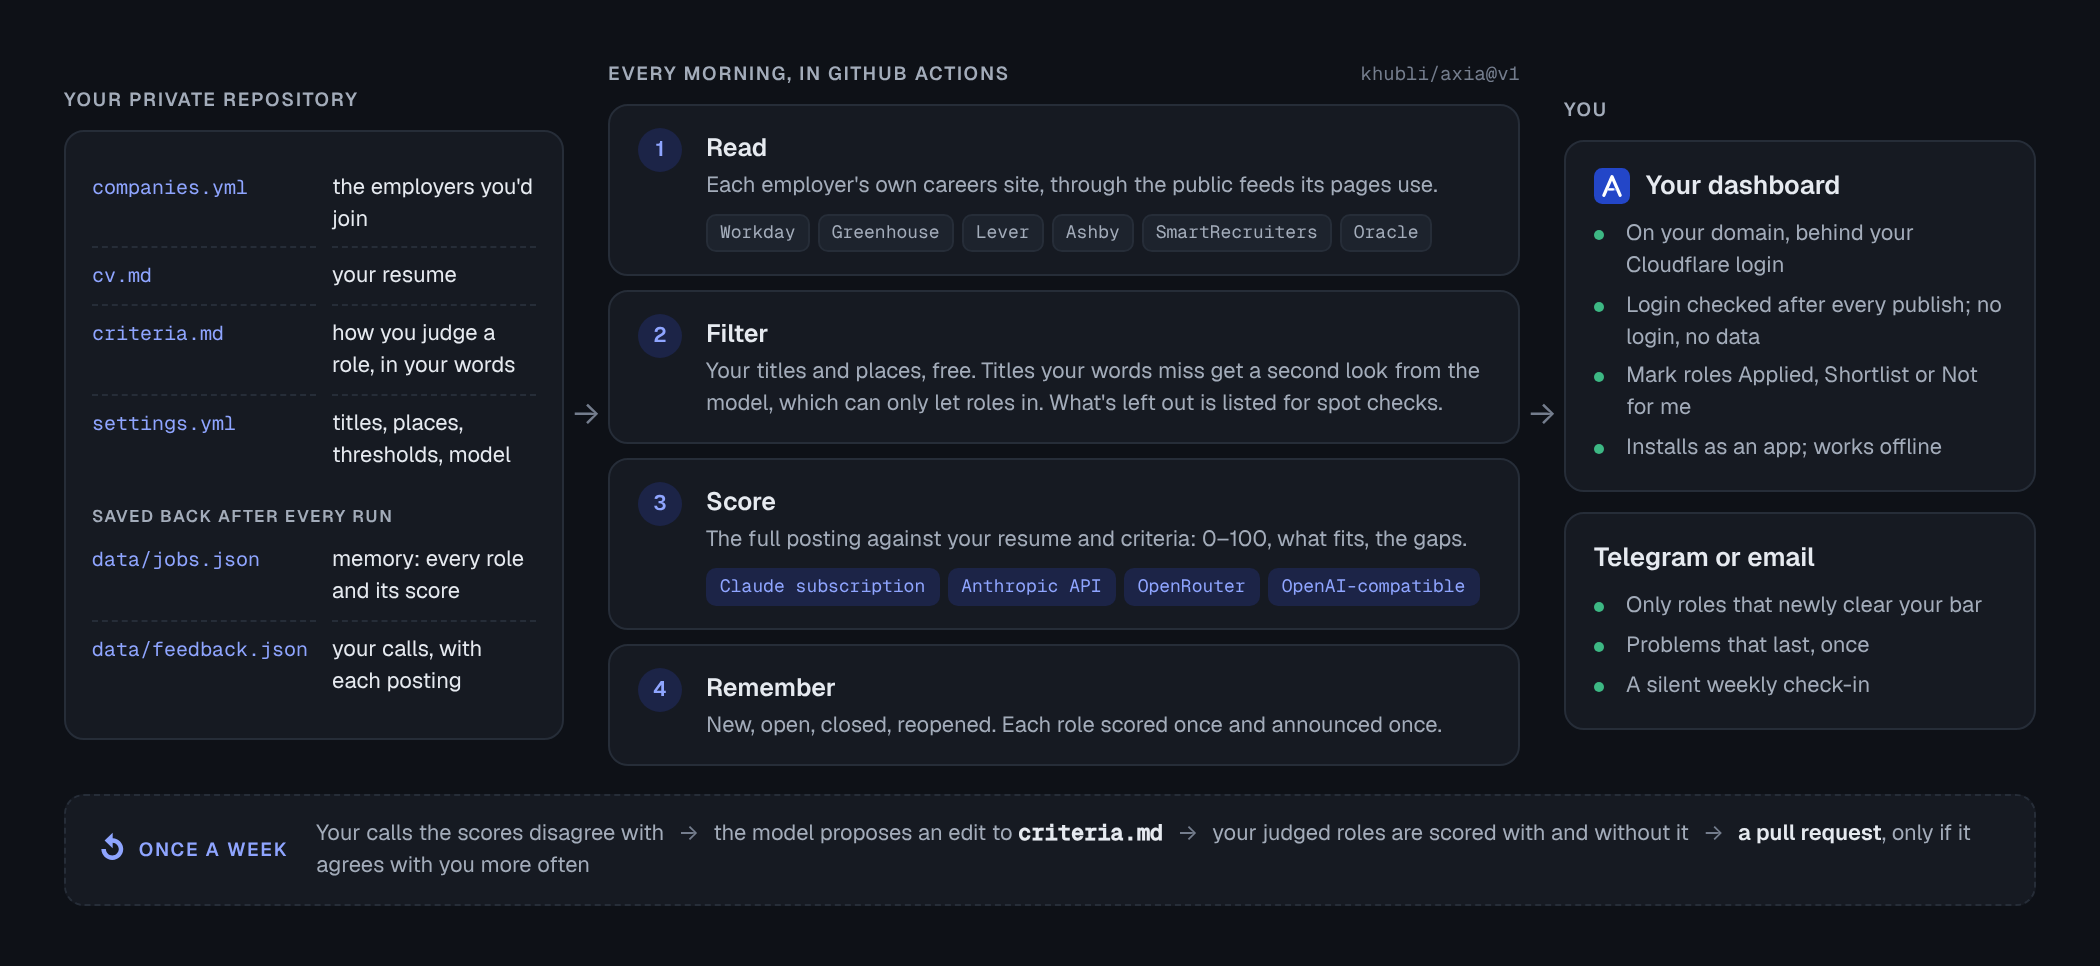
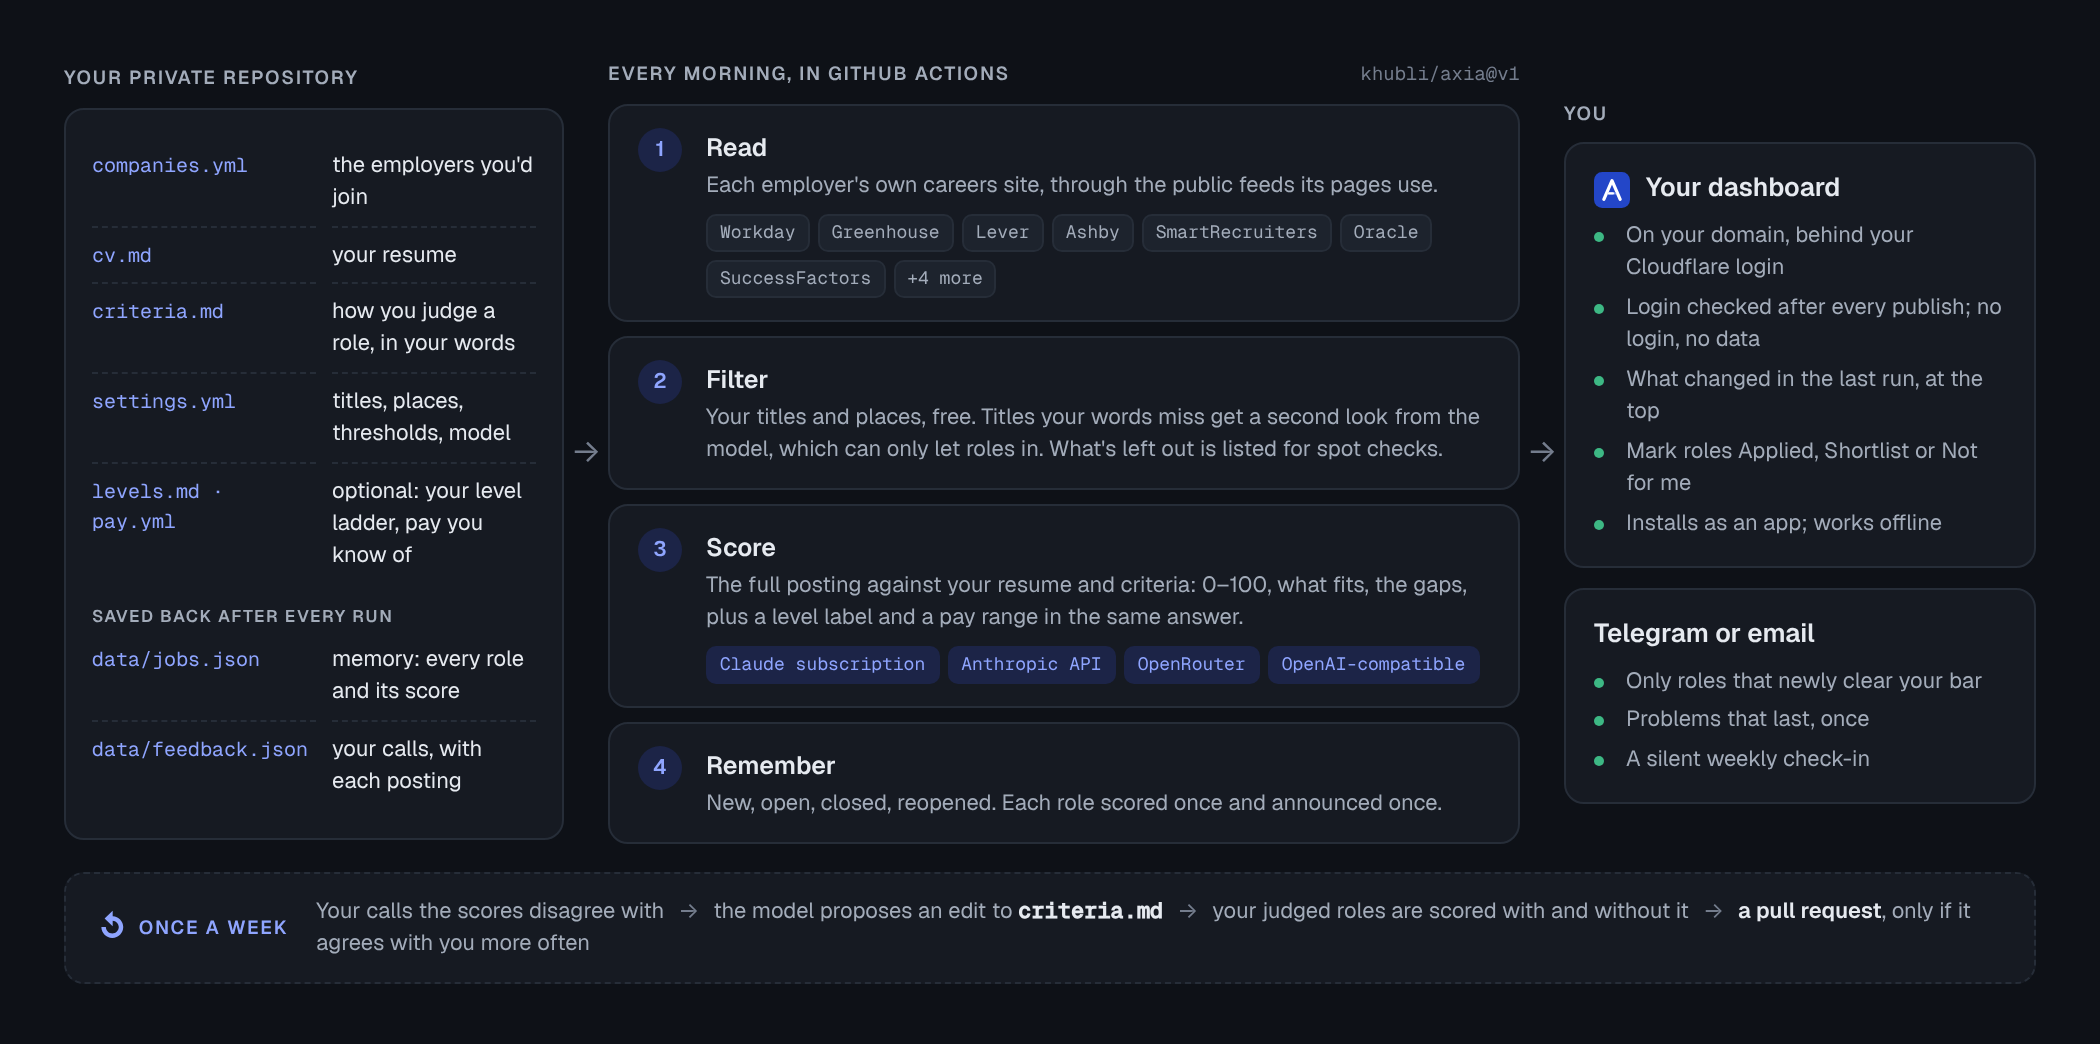
Docs catch up with 1.3.0 to 1.15.0: README, pictures, starter repo
- README: pay ranges, Your roles, the change brief, Shortlist-first queue,
  Moonshots and Tailor in the feature list; tailor-request in Commands.
- Screenshots retaken from the demo (level labels, pay, change brief,
  new score chart, Your roles and Moonshots tabs); the overview picture
  now shows levels.md and pay.yml, and level and pay in the Score step.
- CONTRIBUTING lists the modules added since 1.2.0; SECURITY covers the
  Tailor token and what levels.md and pay.yml send to the model; the
  secrets table lists AXIA_TAILOR_TOKEN.
- Starter repo: levels.md, moonshots.json, tailored.json and
  data/feedback.json in its README, a commented tailor switch and
  dispatch token, estimate_floor in pay.yml, and made-up pay figures.
- Examples and tests name the private repository my-axia.

No code changes.

Claude-Session: https://claude.ai/code/session_011YpgFCgdPEEN1AwG5y31mg

diff --git a/docs/images/how-it-works.html b/docs/images/how-it-works.html
@@ -78,6 +78,7 @@ code, .mono { font-family: "Geist Mono", ui-monospace, monospace; }
         <dt>cv.md</dt><dd>your resume</dd>
         <dt>criteria.md</dt><dd>how you judge a role, in your words</dd>
         <dt>settings.yml</dt><dd>titles, places, thresholds, model</dd>
+        <dt>levels.md · pay.yml</dt><dd>optional: your level ladder, pay you know of</dd>
       </dl>
       <p class="sub">Saved back after every run</p>
       <dl>
@@ -91,9 +92,9 @@ code, .mono { font-family: "Geist Mono", ui-monospace, monospace; }
     <p class="eyebrow">Every morning, in GitHub Actions <code>khubli/axia@v1</code></p>
     <div class="steps">
       <div class="card step"><span class="n">1</span><div><h3>Read</h3><p>Each employer's own careers site, through the public feeds its pages use.</p>
-        <div class="chips"><span>Workday</span><span>Greenhouse</span><span>Lever</span><span>Ashby</span><span>SmartRecruiters</span><span>Oracle</span></div></div></div>
+        <div class="chips"><span>Workday</span><span>Greenhouse</span><span>Lever</span><span>Ashby</span><span>SmartRecruiters</span><span>Oracle</span><span>SuccessFactors</span><span>+4 more</span></div></div></div>
       <div class="card step"><span class="n">2</span><div><h3>Filter</h3><p>Your titles and places, free. Titles your words miss get a second look from the model, which can only let roles in. What's left out is listed for spot checks.</p></div></div>
-      <div class="card step"><span class="n">3</span><div><h3>Score</h3><p>The full posting against your resume and criteria: 0–100, what fits, the gaps.</p>
+      <div class="card step"><span class="n">3</span><div><h3>Score</h3><p>The full posting against your resume and criteria: 0–100, what fits, the gaps, plus a level label and a pay range in the same answer.</p>
         <div class="chips ai"><span>Claude subscription</span><span>Anthropic API</span><span>OpenRouter</span><span>OpenAI-compatible</span></div></div></div>
       <div class="card step"><span class="n">4</span><div><h3>Remember</h3><p>New, open, closed, reopened. Each role scored once and announced once.</p></div></div>
     </div>
@@ -103,7 +104,7 @@ code, .mono { font-family: "Geist Mono", ui-monospace, monospace; }
     <p class="eyebrow">You</p>
     <div class="you">
       <div class="card out"><h3><img src="../../src/dashboard/icon.svg" alt="">Your dashboard</h3>
-        <ul><li>On your domain, behind your Cloudflare login</li><li>Login checked after every publish; no login, no data</li><li>Mark roles Applied, Shortlist or Not for me</li><li>Installs as an app; works offline</li></ul></div>
+        <ul><li>On your domain, behind your Cloudflare login</li><li>Login checked after every publish; no login, no data</li><li>What changed in the last run, at the top</li><li>Mark roles Applied, Shortlist or Not for me</li><li>Installs as an app; works offline</li></ul></div>
       <div class="card out"><h3>Telegram or email</h3>
         <ul><li>Only roles that newly clear your bar</li><li>Problems that last, once</li><li>A silent weekly check-in</li></ul></div>
     </div>

diff --git a/README.md b/README.md
@@ -10,7 +10,7 @@ You list the employers you want to work for. Every morning Axia reads their own 
 
 **[Live demo](https://khubli.github.io/axia/)** (made-up companies, roles and candidate) · **[Set it up](docs/setup.md)** in about 30 minutes
 
-<img src="docs/screenshots/desktop.png" alt="The Axia dashboard: a one-line verdict, where the AI scores fall, filters, and a ranked list with the reasons for each score and your calls on roles (Applied, Shortlist)" width="100%">
+<img src="docs/screenshots/desktop.png" alt="The Axia dashboard: a one-line verdict, what changed in the last run, where the AI scores fall, the gaps that keep coming up, filters, and a ranked list where each role shows its score, a step up, same level or step down label and a pay range, with the full reasons beside it" width="100%">
 
 ## Why Axia
 
@@ -21,26 +21,29 @@ Most job-search tools start from a job board and a keyword search, then give you
 - **Scored the way you would score it.** The model reads the full posting against your resume and `criteria.md`, where you write your hard stops, the gaps you'd accept, and the titles that fool you. `axia calibrate` measures how often it agrees with roles you have already judged, so you tune the wording until it scores like you. In the author's own use, that took agreement from 1 in 8 judged roles to 10 or 11 in 12.
 - **Every gap is checkable.** Each score lists what the posting itself requires, quoted in its own words, and whether your resume shows it; a requirement it can't quote is dropped. Once a week the gaps that keep coming up across your close calls are grouped into a few themes, so you decide once whether to add the evidence to your resume or accept the gap.
 - **Step up or step down, not just the title.** Each role is labelled against your current level. Titles mislead across employers (one bank's VP is another's Director), so the model goes by your `levels.md` ladder and the scope the posting describes, in the same request as the score.
+- **A pay range on every role.** From the posting when it states pay (quoted and checked), from your own `pay.yml` table, or a rough AI estimate marked `~`. Same request as the score, and pay never moves the score. Axia never fetches pay sites.
 - **It learns from your calls.** Mark a role Applied, Shortlist or Not for me on the dashboard. Once a week Axia checks its scores against your calls, and when a change to `criteria.md` would agree with you more often (proven by scoring your judged roles with and without it), it opens a pull request for you to merge or close. It never changes how it scores on its own.
-- **It remembers.** Every role is tracked: new, open, closed, reopened. Each is scored once and announced once, re-scored only when your resume or criteria change, and dropped when the employer takes it down. The same job posted twice counts once, and only when the postings really are the same job.
+- **It remembers.** Every role is tracked: new, open, closed, reopened. Each is scored once and announced once, re-scored only when your resume or criteria change, and dropped when the employer takes it down. The same job posted twice counts once, and only when the postings really are the same job. Roles you marked Applied or Shortlist stay on a **Your roles** tab even after they close.
+- **It tells you what changed.** One line at the top of the dashboard says what the last run did: new and closed roles, first scores by band, messages sent, sites that broke or came back, and how long the waiting queue will take. Built by comparing runs, with no AI request. Spot a role far back in the queue? Shortlist it and the next run scores it first.
 - **Quiet by design.** At most one message per run: roles that newly crossed your threshold, problems that last, and a silent weekly check-in. The dashboard holds everything else, with the reasons, strengths and gaps behind every score.
 - **Private by construction.** Your resume, companies and scores live only in your own private repository and your own Cloudflare account. The dashboard sits behind your login, and after every publish Axia checks that a stranger is asked to sign in; if not, it takes your data down at once.
 - **No servers, no extra bill.** It runs on GitHub Actions, the Claude Pro or Max subscription you may already have, Cloudflare's free plan and Telegram. No database, nothing to host.
 - **Your choice of model.** Claude through your subscription or API key, or any model on OpenRouter (GPT, Gemini, Llama, Mistral…), or any OpenAI-compatible API. Switch with one line in `settings.yml`, and check the new model against your own verdicts with `axia calibrate`.
 - **Shaped by plain files.** Companies, titles, places, thresholds, schedule, messages and criteria are text files in your repository. A new job site is one small file.
 - **An app on your phone.** The dashboard installs as an app, opens instantly, works offline and refreshes itself, in light or dark.
+- **Room for your own tools (optional).** A Moonshots tab shows stretch roles another tool of yours tracks, from a `moonshots.json` file. A Tailor button queues a role, with its posting text, for your own resume-tailoring workflow, and can start it at the click. Axia writes no resumes itself.
 
 **What Axia is not:** not an auto-apply bot, not a LinkedIn or job-board scraper, not a resume rewriter, and not a hosted service. It tells you where to look and why. You decide, and you apply.
 
 **Who it's for:** people with a shortlist of employers and a clear sense of the level and kind of role they want, who would rather hear about the right opening the day it appears than check a dozen careers sites.
 
-<p align="center"><img src="docs/screenshots/phone-dark.png" alt="A role on a phone, in dark mode: score, what fits, gaps to check, a link to the posting, and your call: Applied, Shortlist or Not for me" width="300"></p>
+<p align="center"><img src="docs/screenshots/phone-dark.png" alt="A role on a phone, in dark mode: its score with a same-level label and pay range, then the details: where the pay figure came from, the level against yours, the score band and what fits" width="300"></p>
 
 ## How it works
 
 <picture>
   <source media="(prefers-color-scheme: dark)" srcset="docs/images/how-it-works-dark.png">
-  <img src="docs/images/how-it-works-light.png" alt="Your private repository (companies, resume, criteria, settings) feeds a daily GitHub Actions run of Axia: read each employer's careers site, filter by your titles and places, score with Claude, OpenRouter or another OpenAI-compatible model, and remember every role. Results go to your private dashboard and, for new good matches, to Telegram or email. You mark roles Applied, Shortlist or Not for me on the dashboard; once a week, when the scores disagree with your calls, the model proposes a criteria.md edit, your judged roles are scored with and without it, and it becomes a pull request only if it agrees with you more often." width="100%">
+  <img src="docs/images/how-it-works-light.png" alt="Your private repository (companies, resume, criteria, settings, and optionally your level ladder and pay table) feeds a daily GitHub Actions run of Axia: read each employer's careers site, filter by your titles and places, score with Claude, OpenRouter or another OpenAI-compatible model (with a level label and a pay range in the same answer), and remember every role. Results go to your private dashboard and, for new good matches, to Telegram or email. You mark roles Applied, Shortlist or Not for me on the dashboard; once a week, when the scores disagree with your calls, the model proposes a criteria.md edit, your judged roles are scored with and without it, and it becomes a pull request only if it agrees with you more often." width="100%">
 </picture>
 
 Details, step by step: [docs/how-it-works.md](docs/how-it-works.md).
@@ -86,6 +89,7 @@ node src/cli.mjs calibrate --dir ../my-axia
 node src/cli.mjs review --dir ../my-axia --now   # the weekly review: would a criteria change agree with your calls more often?
 node src/cli.mjs second-look --dir ../my-axia   # which titles your words miss today that the model would let through
 node src/cli.mjs gaps --dir ../my-axia          # the gaps that keep coming up in your roles scored 55 to 89, grouped now (writes nothing)
+node src/cli.mjs tailor-request --dir ../my-axia --id <role id> --out request.json   # one Tailor request with its posting text, for your tailoring workflow
 npm test        # offline; job boards, AI models and Telegram are answered by recorded responses
 ```
 

diff --git a/SECURITY.md b/SECURITY.md
@@ -9,9 +9,10 @@ Please don't open a public issue for a security problem. Use GitHub's **Report a
 - **Your data stays in your accounts.** Resume, criteria, company list, scores and run logs live in your own private repository. This repository holds only code.
 - **The dashboard requires a login.** It is published to your Cloudflare account on your domain, with the `workers.dev` address and preview URLs switched off. After every publish Axia requests it as a stranger. Unless a Cloudflare Access login answers, it immediately replaces the page with one that holds no data and fails the run.
 - **Your calls are written only through your login.** The dashboard's Applied / Shortlist / Not for me buttons save to a Workers KV store in your Cloudflare account, through the dashboard's own Worker on the same Access-protected address. The Worker also refuses requests that carry no Access token, writes from any other site, and anything malformed. Each run copies the calls, with the posting text, into your private repository.
+- **The Tailor token can only start workflows.** With `tailor.dispatch` set, the token you give the action is saved as a secret of your dashboard's Worker and never reaches the page. Create it fine-grained, for the one repository that holds your tailoring workflow, with only Actions: read and write: it can start workflows there but not change your files.
 - **The weekly review changes nothing by itself.** It proposes `criteria.md` edits as a pull request in your own repository, with the workflow's own token; you merge or close it.
 - **Secrets are never printed.** Tokens reach the action as inputs from your repository's secrets; GitHub masks them in logs.
-- **What leaves your accounts:** each scored posting, with your resume and criteria, goes to the AI provider you chose (Claude, OpenRouter or another OpenAI-compatible API). Messages go to your Telegram bot or your email.
+- **What leaves your accounts:** each scored posting, with your resume and criteria (and `levels.md`, plus that employer's lines from `pay.yml`, if you have them), goes to the AI provider you chose (Claude, OpenRouter or another OpenAI-compatible API). Messages go to your Telegram bot or your email. A Tailor click with `tailor.dispatch` set sends the role's id and your note to GitHub to start your workflow.
 - **On your devices:** the installed app keeps the last results it loaded so it works offline. Remove the app or clear site data to delete them.
 
 ## Supported versions

diff --git a/CONTRIBUTING.md b/CONTRIBUTING.md
@@ -19,9 +19,19 @@ Node 22 or later. No other tools are needed.
 |---|---|
 | `src/sources/` | One file per job site (Workday, Greenhouse, Lever, Ashby, SmartRecruiters, Oracle, SuccessFactors, Eightfold, TurboHire, Amazon, Google, Goldman Sachs) |
 | `src/run.mjs` | The daily pass: read, filter, remember, score, notify, write |
+| `src/config.mjs` | Reads `companies.yml`, `settings.yml` and the resume, with plain error messages |
+| `src/filter.mjs`, `src/secondlook.mjs` | Title and place filter; the model's second look at titles your words miss |
 | `src/score.mjs` | AI scoring (Claude Code on a subscription, the Claude API, OpenRouter, OpenAI-compatible APIs) and the keyword fallback |
+| `src/levels.mjs`, `src/pay.mjs` | The step up / same level / step down label and the pay range, both returned in the scoring answer |
+| `src/catchup.mjs` | Fills those fields on roles scored before they existed, without re-scoring |
+| `src/state.mjs` | Memory between runs (`data/jobs.json`): new, open, closed, reopened |
+| `src/changes.mjs` | "What changed in the last run", by comparing memory before and after (no AI) |
+| `src/feedback.mjs`, `src/review.mjs`, `src/calibrate.mjs` | Your calls from the dashboard, the weekly criteria review, and `axia calibrate` |
+| `src/gaps.mjs` | The weekly "what keeps coming up" themes |
+| `src/moonshots.mjs`, `src/tailor.mjs` | The optional Moonshots tab and Tailor requests |
+| `src/render.mjs` | The view model shared by the dashboard and `dashboard/README.md` |
 | `src/notify.mjs` | What gets sent and when; Telegram and email |
-| `src/site.mjs`, `src/dashboard/` | The dashboard page, service worker, icons and fonts |
+| `src/site.mjs`, `src/dashboard/` | The dashboard page, its Worker (saves your calls and Tailor clicks), service worker, icons and fonts |
 | `src/deploy.mjs` | Publishing to Cloudflare and the login check |
 | `action.yml` | The GitHub Action people use from their private repository |
 | `examples/instance/` | The starter private repository |

diff --git a/docs/how-it-works.md b/docs/how-it-works.md
@@ -5,7 +5,7 @@ One pass, once a day, in your own private repository's GitHub Actions:
 ```mermaid
 flowchart LR
   subgraph you["Your private repository"]
-    cfg["companies.yml · settings.yml"]
+    cfg["companies.yml · settings.yml<br/>levels.md · pay.yml (optional)"]
     cv["cv.md · criteria.md"]
     mem[("data/jobs.json<br/>memory")]
     fb[("data/feedback.json<br/>your calls")]
@@ -13,7 +13,7 @@ flowchart LR
   sites[["Employers' careers sites<br/>Workday · Greenhouse · Lever · Ashby · SmartRecruiters · Oracle · SuccessFactors · Eightfold · TurboHire · Amazon · Google"]]
   model[["Your model<br/>Claude · OpenRouter · OpenAI-compatible"]]
   subgraph run["Every morning: GitHub Actions running khubli/axia"]
-    read["1 Read"] --> filter["2 Filter<br/>titles and places"] --> score["3 Score<br/>0–100, fits, gaps"] --> remember["4 Remember<br/>new · closed · reopened"]
+    read["1 Read"] --> filter["2 Filter<br/>titles and places"] --> score["3 Score<br/>0–100, fits, gaps<br/>level · pay range"] --> remember["4 Remember<br/>new · closed · reopened"]
   end
   cfg --> read
   sites --> read

diff --git a/examples/instance/README.md b/examples/instance/README.md
@@ -9,10 +9,13 @@ watching and how every role scored against me.
 | `cv.md` | My resume, in Markdown |
 | `criteria.md` | What a good role looks like for me, in my words |
 | `companies.yml` | The companies to watch |
+| `levels.md` | Optional: my level, and what it is called at the companies I watch |
 | `pay.yml` | Optional: pay figures I know of, by employer and level |
 | `settings.yml` | Titles, places, scoring, messages and the dashboard address |
 | `calibration/` | Optional: roles I judged myself, to check the scorer |
+| `moonshots.json`, `tailored.json` | Optional: written by my own tools, for the Moonshots tab and Tailor requests |
 | `data/jobs.json` | Written by Axia: every matching role and its score |
+| `data/feedback.json` | Written by Axia: my calls on the dashboard, with each posting |
 | `dashboard/README.md` | Written by Axia: the plain list, readable on GitHub |
 | `.github/workflows/axia.yml` | Runs Axia every morning |
 

diff --git a/docs/configuration.md b/docs/configuration.md
@@ -243,7 +243,7 @@ Without more setup, a click waits for the next run. To start your tool at once, 
 
 ```yaml
 # settings.yml
-tailor: { enabled: true, dispatch: you/career-data }
+tailor: { enabled: true, dispatch: you/my-axia }
 ```
 
 ```yaml
@@ -281,6 +281,7 @@ Roles you have judged yourself, so you can measure how often the model agrees wi
 | `TELEGRAM_BOT_TOKEN`, `TELEGRAM_CHAT_ID` | secrets | messages on Telegram |
 | `SMTP_USER`, `SMTP_PASSWORD`, `EMAIL_TO` | secrets | messages by email |
 | `CLOUDFLARE_API_TOKEN`, `CLOUDFLARE_ACCOUNT_ID` | secrets | publishing the dashboard |
+| `AXIA_TAILOR_TOKEN` | secret | optional, with `tailor.dispatch`: lets a Tailor click start your tailoring workflow at once (passed as the action's `tailor-dispatch-token`) |
 | `NOTIFY_MIN_SCORE` | variable | message threshold, overrides `notify.min_score` |
 
 ## Files Axia writes
